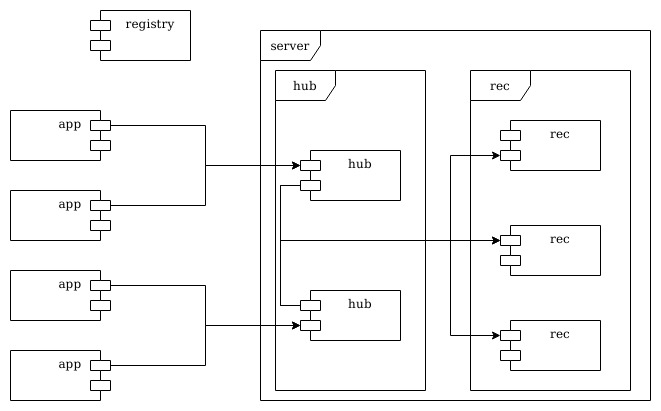
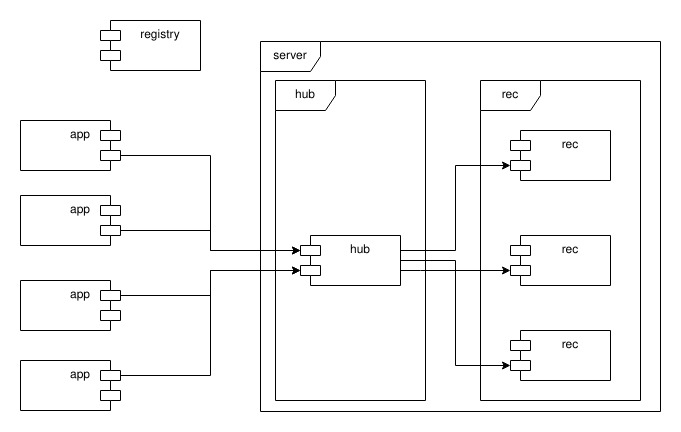
Part 2 clarifications: single hub, concurrency control, UML Collaboration suggestion, performance data before and after

diff --git a/part2.md b/part2.md
@@ -3,22 +3,33 @@
 
 O projeto de Sistemas Distribuídos (SD) corresponde ao desenvolvimento do sistema **Bicloin**, que permite gerir uma plataforma de bicicletas partilhadas numa cidade.
 
-Na primeira parte do projeto foi construída uma primeira versão do sistema, com servidores `hub` para armazenar dados imutáveis e validar regras de negócio, com um servidor `rec` para armazenar registos com dados mutáveis, e a aplicação `app` com uma interface-utilizador.
+Na primeira parte do projeto foi construída uma primeira versão do sistema, com um servidor `hub` para armazenar dados imutáveis e validar regras de negócio, com um servidor `rec` para armazenar registos com dados mutáveis, e a aplicação `app` com uma interface-utilizador.
 
 Este documento apresenta os requisitos para a segunda parte do projeto, onde o sistema vai ser estendido para permitir ter várias réplicas de `rec` e oferecer tolerância a faltas no acesso aos dados mutáveis.
 
 1 Replicação com coerência de dados
 -----------------------------------
 
-Como vimos na primeira parte e nas aulas teóricas, a replicação tem o benefício de permitir tolerar a falta de servidores.
-Por exemplo, na primeira parte do projecto, quando um dos servidores `hub` parava, era possível contactar outro.
-No entanto, esta substituição de servidores apenas foi possível de forma trivial porque não existiam variáveis partilhadas entre as diferentes réplicas.
-O sistema manteve-se coerente porque a informação mutável estava toda num único `rec`.
+Como vimos nas aulas teóricas, a replicação tem o benefício de permitir tolerar a falta de servidores.
+Por exemplo, na primeira parte do projecto, quando o servidor `hub` parava, era possível lançar outro.
+No entanto, esta substituição de servidores apenas é trivial quando não existem variáveis partilhadas entre diferentes réplicas.
+O sistema mantinha-se coerente porque a informação mutável estava toda num único `rec`.
 No entanto, isto significa que o `rec` é um **ponto central de falha**, isto é, se ele parar, todo o sistema pára, e a informação perde-se.
 
-A informação guardada é muito importante, pois inclui os saldos das contas dos utilizadores e a ocupação das estações de bicicletas.
+1.1 Tolerância a faltas com coerência de dados
+----------------------------------------------
+
+A informação guardada no `rec` é muito importante, pois inclui os saldos das contas dos utilizadores e a ocupação das estações de bicicletas.
 É muito importante que exista tolerância a faltas no `rec` e que as alterações aos saldos de cada utilizador (*bicloins* gastos e ganhos) não se percam, nem sejam corrompidos.
-Por outras palavras, é necessário replicar também o `rec` para ter **tolerância a faltas**, mas é fundamental manter a **coerência dos dados**.
+Por outras palavras, é necessário replicar o `rec` para ter **tolerância a faltas**, mas é fundamental manter a **coerência dos dados**.
+
+1.2 Controlo de concorrência
+----------------------------
+
+Por exemplo, para atualizar o saldo de um utilizador, é preciso ler saldo, incrementar, e depois escrever o novo saldo.
+Como as operações `read` e `write` são individuais, o `rec` não consegue garantir o **isolamento** de **sequências** de leituras e escritas nos mesmos registos.
+Sendo assim, compete ao `hub` garantir que apenas um procedimento pode estar a aceder a registos de um mesmo utilizador, e que apenas um procedimento pode estar a aceder a registos de uma mesma estação.
+É necessário usar mecanismos de sincronização adequados porque o `hub` é um servidor gRPC *multi-threaded*, com várias tarefas a tratar de pedidos em simultâneo.
 
 ----
 
@@ -29,6 +40,8 @@ Nesta segunda parte, vão existir várias *réplicas* do `rec`, cada uma com uma
 A figura seguinte mostra uma visão global dos componentes da solução.
 
 ![System](img/system2.jpg)
+
+Por simplificação, deve existir uma única instância do `hub`.
 
 ----
 
@@ -58,7 +71,7 @@ Como modelos de interação e faltas, deve assumir-se que:
 
 - As falhas das réplicas do `rec` são transientes e não definitivas;
 
-- Por simplificação, assume-se que as réplicas do `hub` não falham durante o processamento de operações, i.e., não deixam operações inacabadas;
+- Por simplificação, assume-se que o `hub` não falha durante o processamento de procedimentos remotos, i.e., não deixa procedimentos inacabados;
 
 - Embora o conjunto de gestores de réplica seja estático, os seus endereços não são conhecidos _a priori_ e podem variar ao longo do tempo.
 As réplicas devem ser descobertas através do serviço de nomes.
@@ -85,6 +98,7 @@ Por desempenho, entende-se o **tempo de resposta**, desde o momento em que é fe
 
 Sugere-se que se implemente primeiro uma versão simples da solução, sem preocupações maiores de desempenho.
 Depois, o código desta primeira solução deve ser instrumentado para medir, por exemplo:
+
 - o tempo de resposta ao pedidos (medido por quem faz as chamadas remotas);
 - o número de pedidos `read` e o número de pedidos `write`, para permitir calcular o rácio entre estes procedimentos.
 
@@ -134,13 +148,13 @@ A segunda parte vale 10 valores em 20, distribuídos da seguinte forma:
 
 - Correção de erros da primeira parte (1 valor)
 
-- Uso do *registry* por todos os serviços e suporte para vários `hub` com tratamento transparente de falta (1 valor)
+- Uso do *registry* *ZooKeeper* por todos os serviços (1 valor)
 
 - Replicação do *rec* em múltiplos servidores (1 valor)
 
 - Leituras coerentes (1 valor)
 
-- Escritas coerentes  (1,25 valores)
+- Escritas coerentes (1,25 valores)
 
 - Otimizações de desempenho (1,25 valores)
 
@@ -164,13 +178,14 @@ Conteúdos obrigatórios:
 
 - Definição do modelo de faltas (que faltas são toleradas, que faltas não são toleradas);
 
-- Figura da solução de tolerância a faltas;
+- Figura da solução de tolerância a faltas -- recomenda-se o desenho de um [diagrama UML de colaboração](https://www.visual-paradigm.com/guide/uml-unified-modeling-language/what-is-uml-collaboration-diagram/);
 
 - Breve explicação da solução, suportada pela figura anterior;
 
 - Explicação do protocolo em detalhe (descrição das trocas de mensagens);
 
-- Tabela-resumo dos dados de desempenho recolhidos, com breve explicação;
+- Tabela-resumo dos dados de desempenho recolhidos, com breve explicação.
+Devem ser apresentados dados ANTES e DEPOIS das otimizações;
 
 - Descrição de opções de implementação, incluindo otimizações e melhorias introduzidas.
 

diff --git a/report/README.md b/report/README.md
@@ -7,6 +7,9 @@ Sistemas Distribuídos 2020-2021, segundo semestre
 *(preencher linha abaixo com identificador de grupo, por exemplo, A07 ou T22; e depois apagar esta linha)*  
 **Grupo CXX**
 
+*(usar imagens com 150px de altura, com rosto enquadrado; e depois apagar esta linha)*  
+![Alice](alice.png) ![Bob](bob.png) ![Charlie](charlie.png)
+
 *(preencher a tabela abaixo com dados da equipa; e depois apagar esta linha)*  
 
 | Número | Nome              | Utilizador                                   | Correio eletrónico                  |
@@ -14,9 +17,6 @@ Sistemas Distribuídos 2020-2021, segundo semestre
 | 11111  | Alice Distributed | <https://git.rnl.tecnico.ulisboa.pt/ist1...> | <mailto:alice@tecnico.ulisboa.pt>   |
 | 22222  | Bob Systems       | <https://git.rnl.tecnico.ulisboa.pt/ist1...> | <mailto:bob@tecnico.ulisboa.pt>     |
 | 33333  | Charlie Rules     | <https://git.rnl.tecnico.ulisboa.pt/ist1...> | <mailto:charlie@tecnico.ulisboa.pt> |
-
-*(usar imagens com 150px de altura; e depois apagar esta linha)*  
-![Alice](alice.png) ![Bob](bob.png) ![Charlie](charlie.png)
 
 
 ## Melhorias da primeira parte
@@ -33,7 +33,7 @@ _(que faltas são toleradas, que faltas não são toleradas)_
 
 ## Solução
 
-_(Figura da solução de tolerância a faltas)_
+_(Figura da solução de tolerância a faltas -- e.g. UML Collaboration Diagram)_
 
 _(Breve explicação da solução, suportada pela figura anterior)_
 
